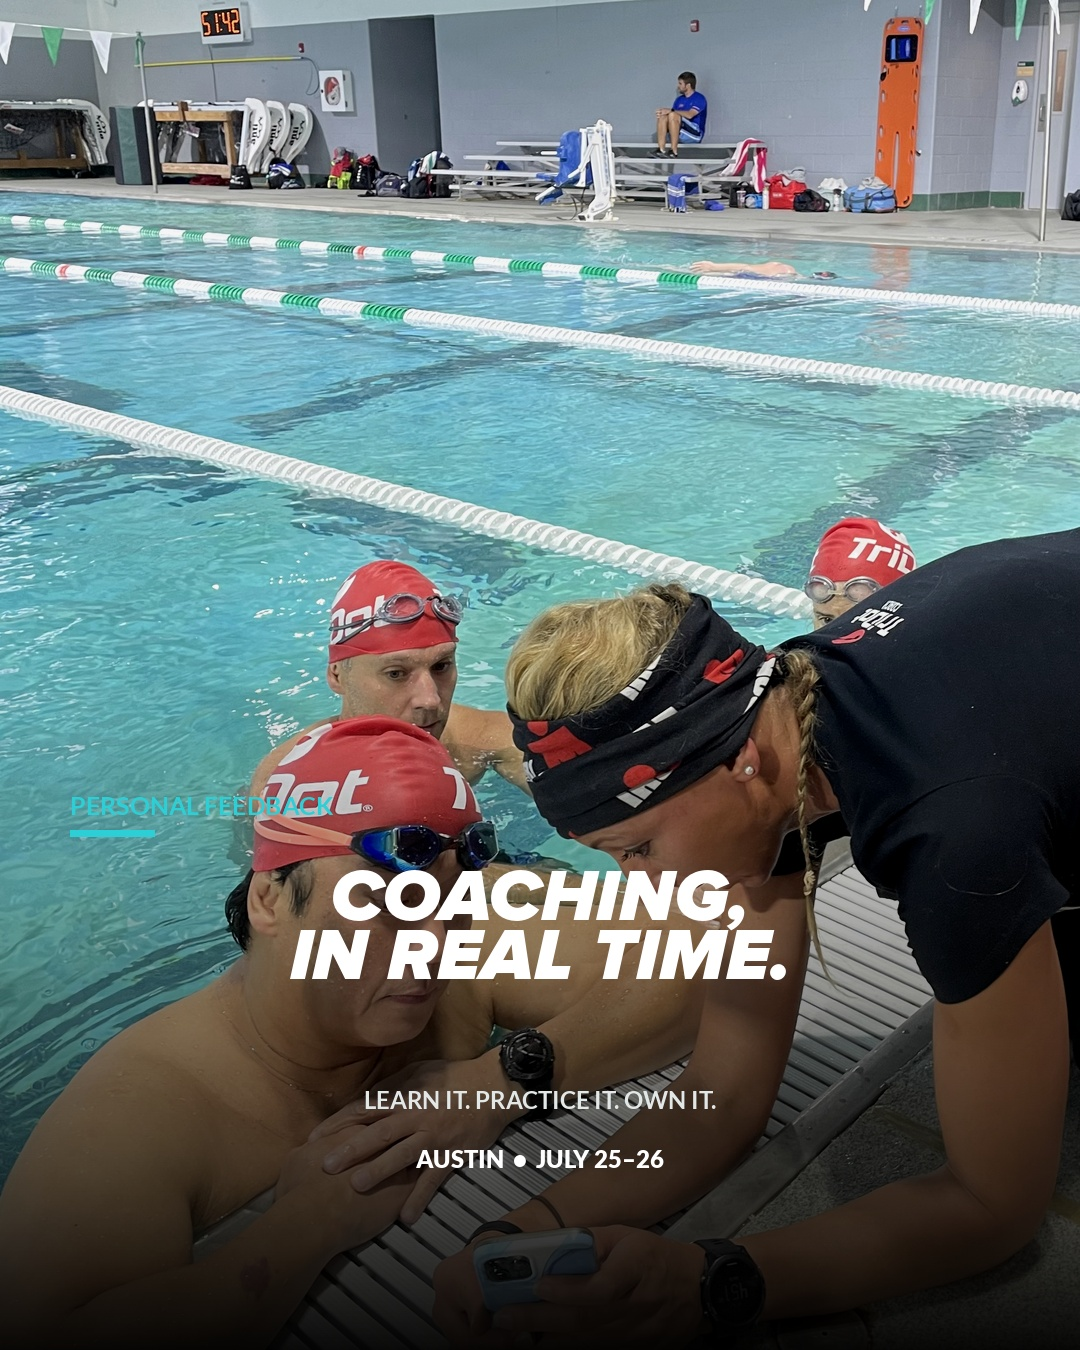
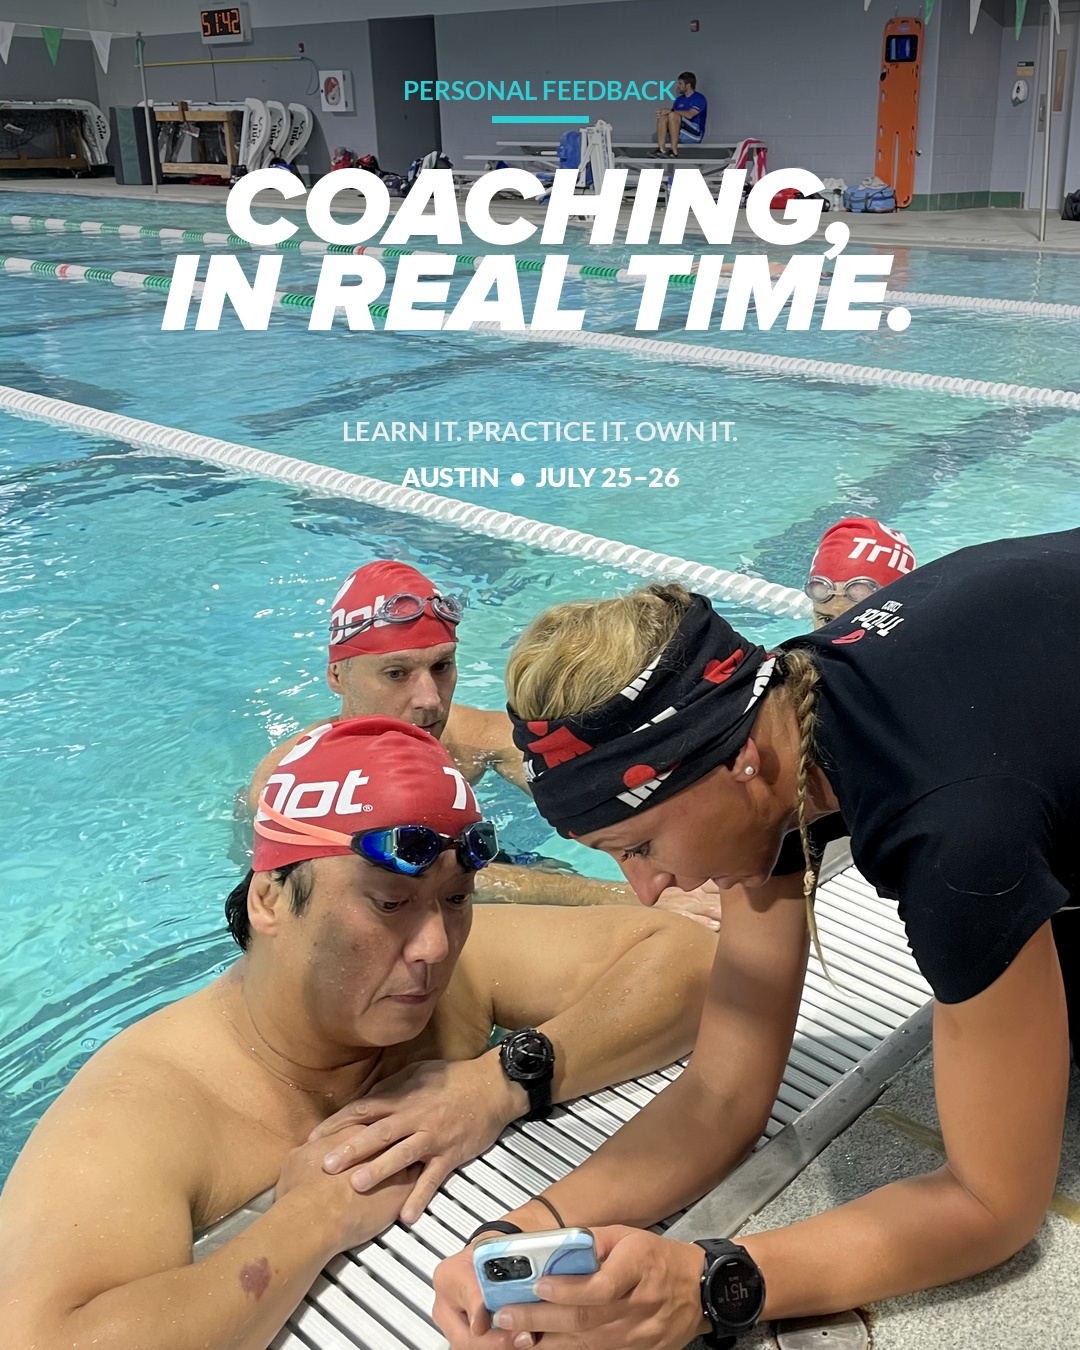
Move real-time coaching copy above the feedback scene

diff --git a/austin-pool-school-review/index.html b/austin-pool-school-review/index.html
@@ -15,5 +15,5 @@ const posts=[
 ['08-detail-matters.jpg','VALUE','The details make the difference','Small technique changes can lead to meaningful progress. Get focused coaching and drills designed to help you apply it back in your own training.'],
 ['09-personal-feedback.jpg','VALUE','Real-time feedback','See it. Understand it. Practice it. Bring your swim questions to Austin and leave with practical tools for your next session.'],
 ['10-austin-register-now.jpg','EVENT PROMO','Austin Pool School: Register now','July 25–26, 2026 · Austin Aquatics and Sports Academy · $599\n\nYour next opportunity to break out of the dreaded swim plateau starts here. Register now.']
-];let i=0;const $=id=>document.getElementById(id);function render(){let p=posts[i];$('title').textContent=`Post ${i+1} of ${posts.length}`;$('graphic').src='./assets/'+p[0]+'?v=realtime-feedback-20260710';$('headline').textContent=p[2];$('caption').textContent=p[3];$('type').textContent=p[1];$('prev').disabled=i===0;$('next').disabled=i===posts.length-1;$('thumbs').innerHTML=posts.map((x,n)=>`<button class="thumb ${n===i?'active':''}" aria-label="View post ${n+1}" onclick="go(${n})"><img src="./assets/${x[0]}?v=realtime-feedback-20260710"></button>`).join('')};function go(n){i=n;render()}$('prev').onclick=()=>go(i-1);$('next').onclick=()=>go(i+1);document.addEventListener('keydown',e=>{if(e.key==='ArrowLeft'&&i)go(i-1);if(e.key==='ArrowRight'&&i<posts.length-1)go(i+1)});render();
+];let i=0;const $=id=>document.getElementById(id);function render(){let p=posts[i];$('title').textContent=`Post ${i+1} of ${posts.length}`;$('graphic').src='./assets/'+p[0]+'?v=top-headline-20260710';$('headline').textContent=p[2];$('caption').textContent=p[3];$('type').textContent=p[1];$('prev').disabled=i===0;$('next').disabled=i===posts.length-1;$('thumbs').innerHTML=posts.map((x,n)=>`<button class="thumb ${n===i?'active':''}" aria-label="View post ${n+1}" onclick="go(${n})"><img src="./assets/${x[0]}?v=top-headline-20260710"></button>`).join('')};function go(n){i=n;render()}$('prev').onclick=()=>go(i-1);$('next').onclick=()=>go(i+1);document.addEventListener('keydown',e=>{if(e.key==='ArrowLeft'&&i)go(i-1);if(e.key==='ArrowRight'&&i<posts.length-1)go(i+1)});render();
 </script></body></html>
